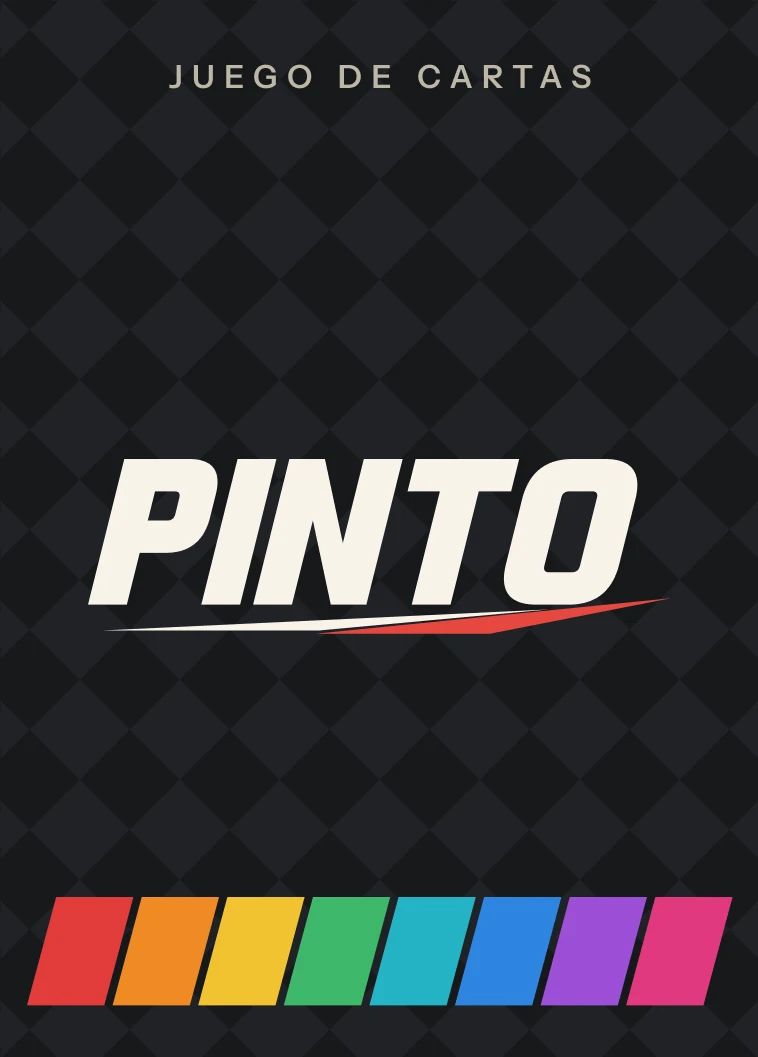
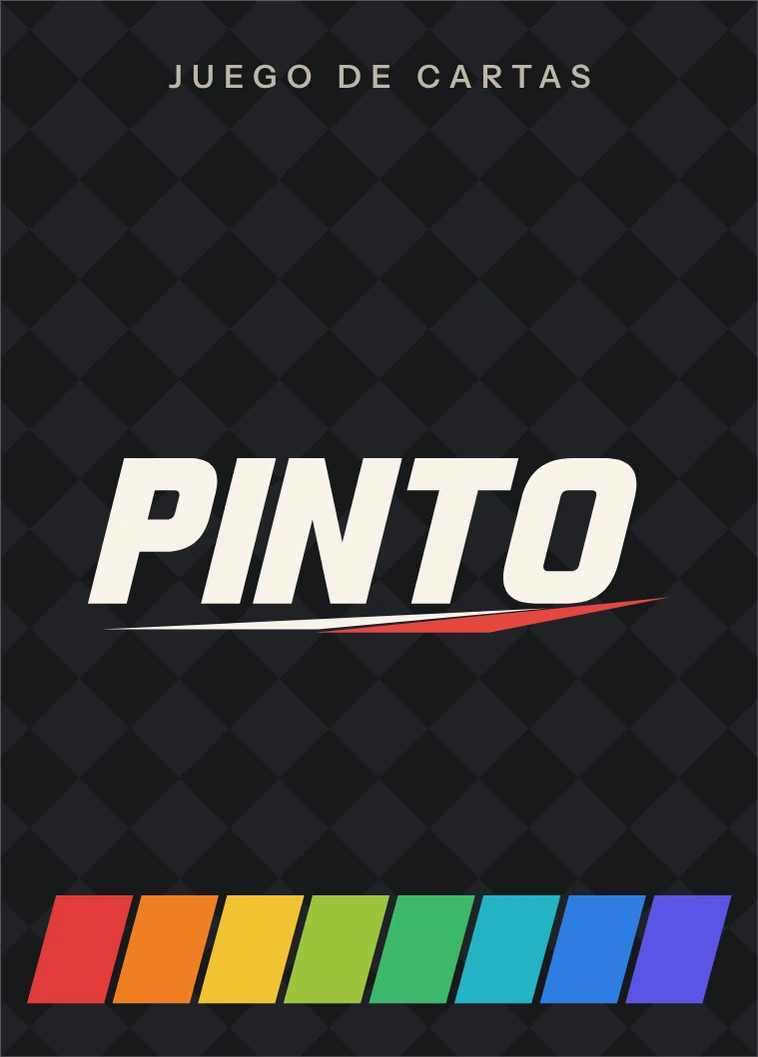
PINTO: use the redesigned box art on the 3D box
Claude-Session: https://claude.ai/code/session_01NnqHpPTsf52NrHQii241Ji

diff --git a/juegos/pinto/index.html b/juegos/pinto/index.html
@@ -93,12 +93,12 @@
         <div class="p-hero__art">
           <div class="box-stage" id="box-stage" role="img" aria-label="Caja del juego PINTO en 3D, girando. Puedes arrastrarla para verla por todos lados.">
             <div class="box3d" id="box3d">
-              <div class="box3d__face box3d__face--front"><img src="img/caja-frente.webp?v=2" alt="" draggable="false"></div>
-              <div class="box3d__face box3d__face--back"><img src="img/caja-reverso.webp?v=2" alt="" draggable="false"></div>
-              <div class="box3d__face box3d__face--right"><img src="img/caja-lado-der.webp?v=2" alt="" draggable="false"></div>
-              <div class="box3d__face box3d__face--left"><img src="img/caja-lado-izq.webp?v=2" alt="" draggable="false"></div>
-              <div class="box3d__face box3d__face--top"><img src="img/caja-arriba.webp?v=2" alt="" draggable="false"></div>
-              <div class="box3d__face box3d__face--bottom"><img src="img/caja-abajo.webp?v=2" alt="" draggable="false"></div>
+              <div class="box3d__face box3d__face--front"><img src="img/caja-frente.webp?v=3" alt="" draggable="false"></div>
+              <div class="box3d__face box3d__face--back"><img src="img/caja-reverso.webp?v=3" alt="" draggable="false"></div>
+              <div class="box3d__face box3d__face--right"><img src="img/caja-lado-der.webp?v=3" alt="" draggable="false"></div>
+              <div class="box3d__face box3d__face--left"><img src="img/caja-lado-izq.webp?v=3" alt="" draggable="false"></div>
+              <div class="box3d__face box3d__face--top"><img src="img/caja-arriba.webp?v=3" alt="" draggable="false"></div>
+              <div class="box3d__face box3d__face--bottom"><img src="img/caja-abajo.webp?v=3" alt="" draggable="false"></div>
             </div>
             <div class="box-shadow" aria-hidden="true"></div>
           </div>

diff --git a/CLAUDE.md b/CLAUDE.md
@@ -138,7 +138,7 @@ the size/page count shown next to the download button.
 - **Cache busting:** CSS/JS/image links carry `?v=N`. When you change a file, bump its `N` **in every
   page that links it** (e.g. `home.css` is linked from `index.html` *and* `privacidad/index.html`).
   Current: `styles.css?v=2`, `home.css?v=9` (index and privacidad),
-  `pinto.css?v=11`, card images `?v=3`, `legal.css?v=1`, `box3d.js?v=2`, `favicon.svg?v=2`, box faces `?v=2`.
+  `pinto.css?v=11`, card images `?v=3`, `legal.css?v=1`, `box3d.js?v=2`, `favicon.svg?v=2`, box faces `?v=3`.
 - **Relative paths everywhere** (`../../css/…`). Pages live in folders as `index.html` so URLs are clean
   (`/juegos/pinto/`). New pages: create `folder/index.html`, copy the head/header/footer of a sibling page.
 - **Sender (newsletter):** universal script in the `<head>` of `index.html`; form is
